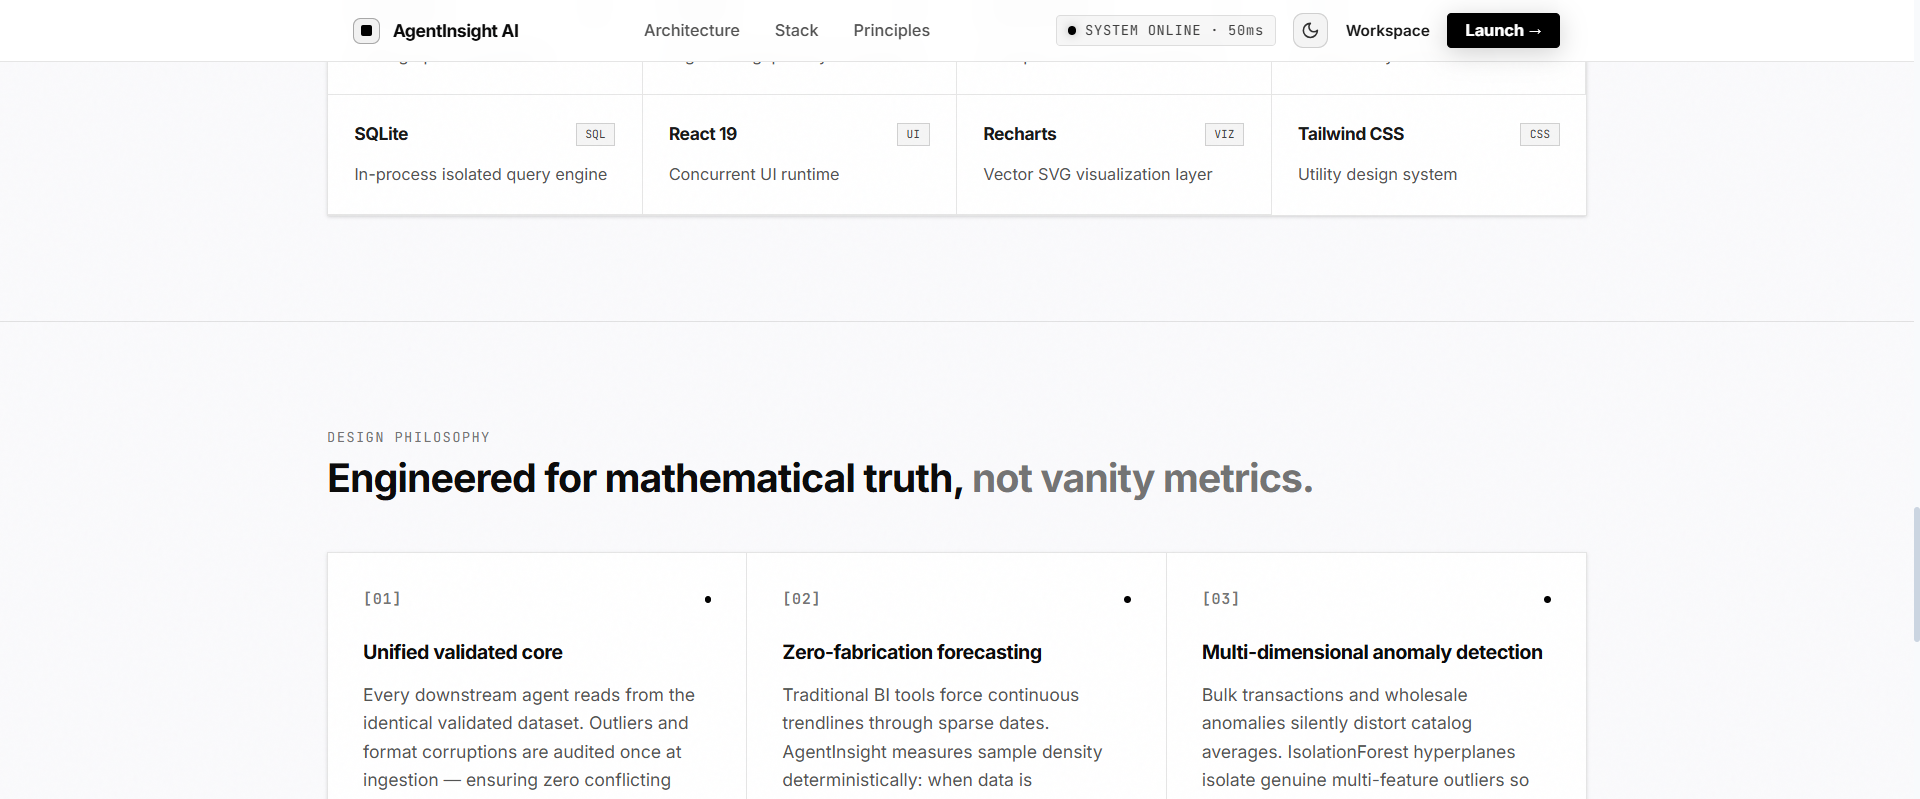
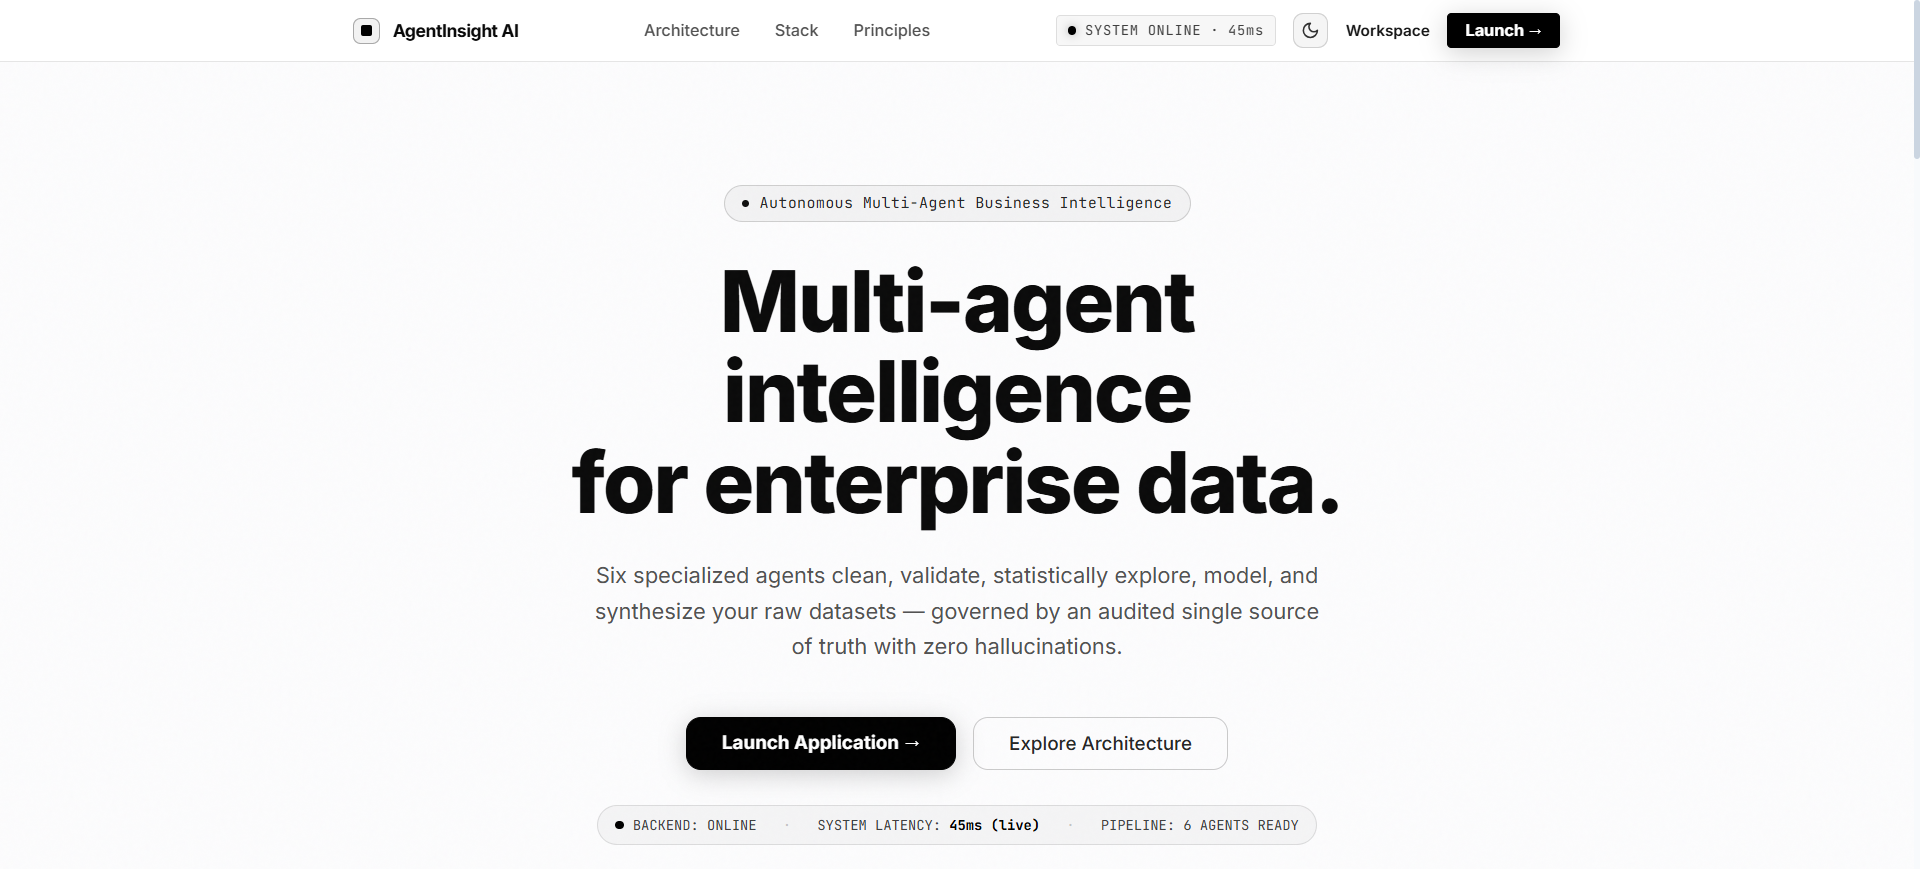
docs: update landing page hero screenshot and remove ml-insights screenshot

diff --git a/README.md b/README.md
@@ -15,9 +15,6 @@ AgentInsight AI is an autonomous, full-stack multi-agent platform designed to tr
 ### Exploratory Data Analysis (EDA)
 ![Exploratory Data Analysis](docs/screenshots/eda-dashboard.png)
 
-### Machine Learning Insights and Anomaly Detection
-![Machine Learning Insights](docs/screenshots/ml-insights.png)
-
 ### Executive Business Summary and Charts
 ![Business Insights](docs/screenshots/business-insights.png)
 
